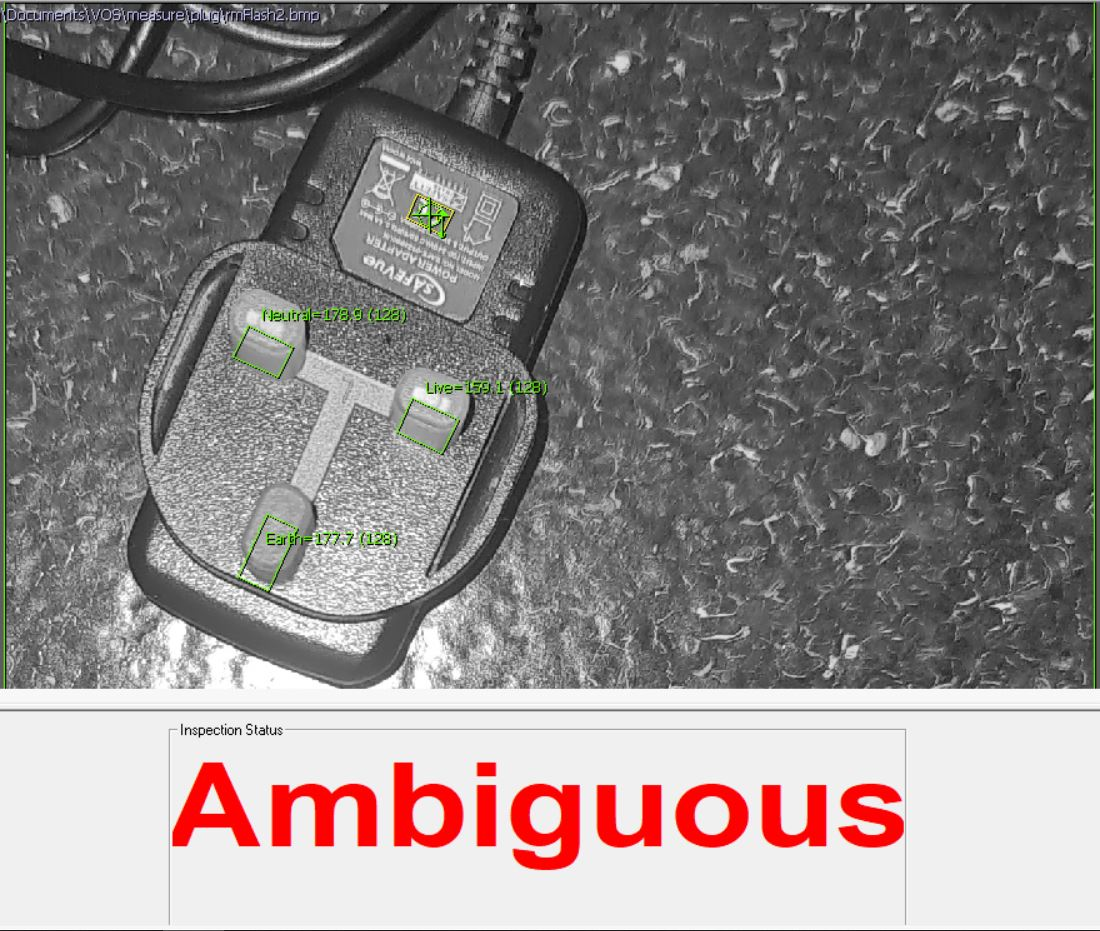
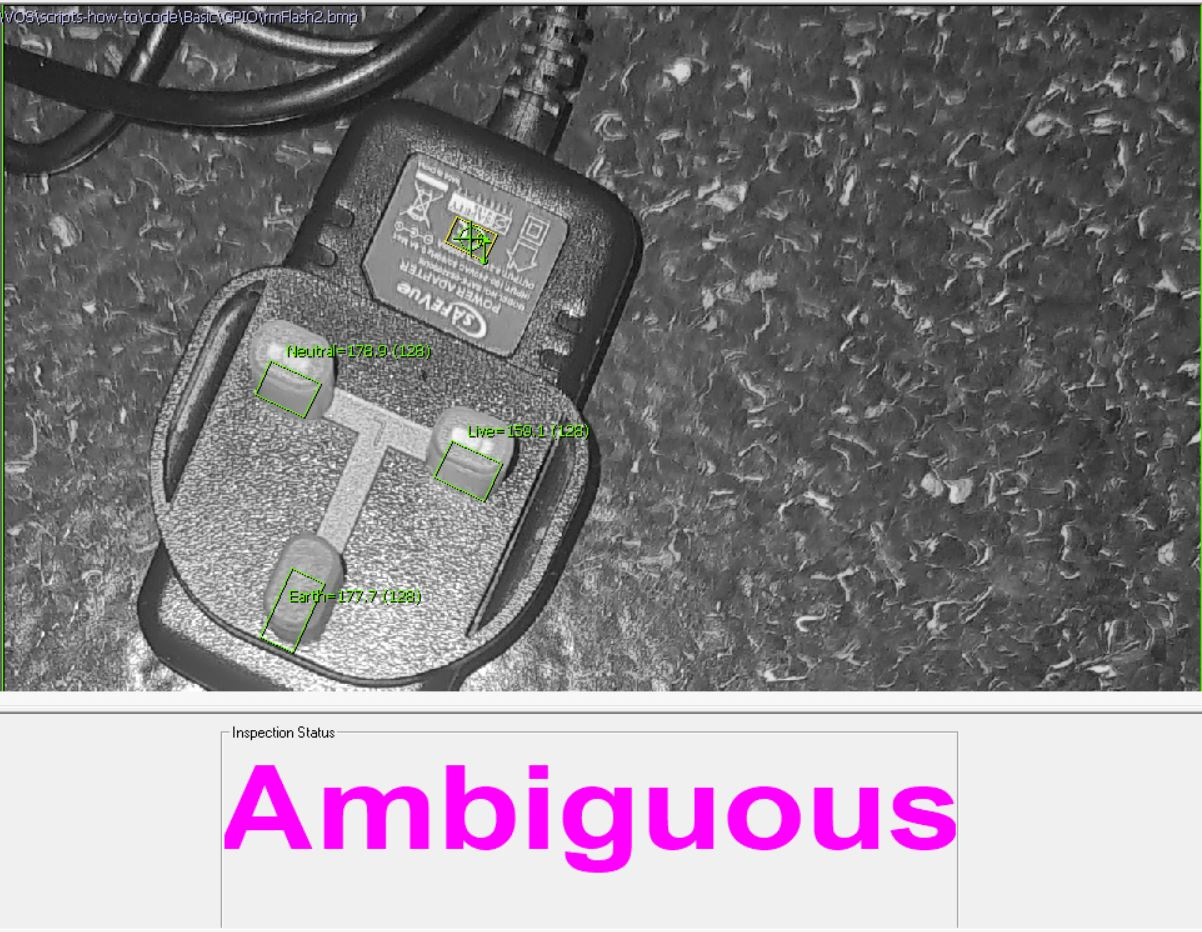
image logging & file logging

diff --git a/intro/Basic/GPIO/GPIO.rst b/intro/Basic/GPIO/GPIO.rst
@@ -42,7 +42,7 @@ This sample demonstrates
   :class: tight-table 
 
   +-------------------------------------+----------------------------------------------------------------------------------------------------------------------------------------------------+
-  |1. ``preAbsence.bin``                |`The solution file <https://github.com/wsaihopfsg/vos-scripting-how-to/blob/master/code/Basic/GPIO/preAbsence.bin?raw=true>`__                      |
+  |1. ``preAbsence.bin``                |`The solution file <https://github.com/wsaihopfsg/vos-scripting-how-to/blob/master/code/Basic/GPIO/preAbsence.bin?raw=true>`__   //todo:update soln |
   |                                     |                                                                                                                                                    |
   |                                     |* At the :hoverxreftooltip:`Solution Setup page <intro/Basic/MathFunc/sensorsetup:Sensor Setup>` |solnsetup|, import |import| the solution          |  
   +-------------------------------------+----------------------------------------------------------------------------------------------------------------------------------------------------+
@@ -197,13 +197,13 @@ Post Image Process
             PASS = 1
             RECYCLE = 0
             FAIL = 0
-            SetDisplayStatus( "Covered", "DARKGREEN")
+            SetDisplayStatus( "Covered", "green")
             GLOBAL.GPO[1] = pulse(1,0,600)
         else
             PASS = 0
             RECYCLE = 1
             FAIL = 0
-            SetDisplayStatus( "Ambiguous", "red")
+            SetDisplayStatus( "Ambiguous", "magenta")
             GLOBAL.GPO[2] = pulse(1,0,600)
         endif
     endif
@@ -228,19 +228,29 @@ Post Image Process
 * Lines 22-27: Sum=0, meaning all 3 pins are 1 (covered)
   
   * Set ``Result`` to ``PASS``
-  * Display "Covered" on screen in ``darkgreen``
+  * Display "Covered" on screen in ``green``
   * Send a pulse for 600ms on ``GLOBAL.GPO[1]``
 
 * Lines 29-33: Sum is either 1 or 2, inspection outcome is not unanimous among the 3 pins
   
   * Set ``Result`` to ``RECYCLE``
-  * Display "Ambiguous" on screen in ``red``
+  * Display "Ambiguous" on screen in ``magenta``
   * Send a pulse for 600ms on ``GLOBAL.GPO[2]``
 
 * Lines 36-38: Bit-functions 
 
-
 Image Logging
+----------------
+
+* Click on ``Setup Connections`` |conn|, then on ``Setup Image Logging`` |imglogbut| and the ``Image Logging`` panel will be shown.
+
+.. Note::
+  Click on |imglogen| to toggle between enabling/disabling image Logging
+
+.. Note::
+  Difference between ``Image Logging`` and ``Image File Logging`` is //todo
+
+Image File Logging
 --------------------
 
 * Click on ``Setup Connections`` |conn|, then on ``Setup Image Logging`` |imglogbut| and the ``Image Logging`` panel will be shown. In this solution, the images that are classified as ``recycle`` will be saved to ``c:\Users`` with file names ``imageXX.bmp`` where ``XX`` is a sequential counter from 00 to 99.
@@ -256,7 +266,7 @@ Image Logging
   File names can be substituted a different name for one image using LogImage/WriteImageFile/WriteImageTools/WriteHistoryImage. //todo: wat are the differences?
 
 .. Note::
-  Click on |imglogen| to toggle between enabling/disabling image file Logging
+  Click on |imgfilelogen| to toggle between enabling/disabling image file Logging
 
 .. Note::
   Check the |gfxchked| to save measurement graphics. If |gfxcbox|, only camera images will be saved.
@@ -315,10 +325,12 @@ Running the solution
 
 * In the ``Variable List`` the results of bit-functions can be found in array ``a`` 
 
-
-
 .. image:: /intro/Basic/GPIO/varlist.jpg
   :width: 300px
+
+.. Note::
+ With ``Image Logging`` |imglogen| enabled, we can invoke the ``History Recall`` |history| button. The buttons in the panel are self-explanatory and are omitted for brevity. |historypanel| 
+
 
 .. Tip::
   #lighting #preprocessor #erode #normalize #GPO #GPI #GPIO #bit-functions #intensity

diff --git a/shared/EmulatorComponents.rst b/shared/EmulatorComponents.rst
@@ -134,9 +134,18 @@
 
 .. |imglog| image:: /img/emulator/imgLogging.jpg
 
-.. |imglogen| image:: /img/emulator/buttons/enimglog.png
+.. |imgfilelogen| image:: /img/emulator/buttons/enimgfilelog.png
    :width: 40px
 
 .. |gfxcbox| image:: /img/emulator/buttons/gfxchkbox.jpg
 
 .. |gfxchked| image:: /img/emulator/buttons/gfxchked.jpg
+
+.. |imglogen| image:: /img/emulator/buttons/enimglog.png
+   :width: 40px
+
+.. |history| image:: /img/emulator/buttons/history.png
+   :width: 40px
+
+.. |historypanel| image:: /img/emulator/historyPanel.png
+   :width: 400px
